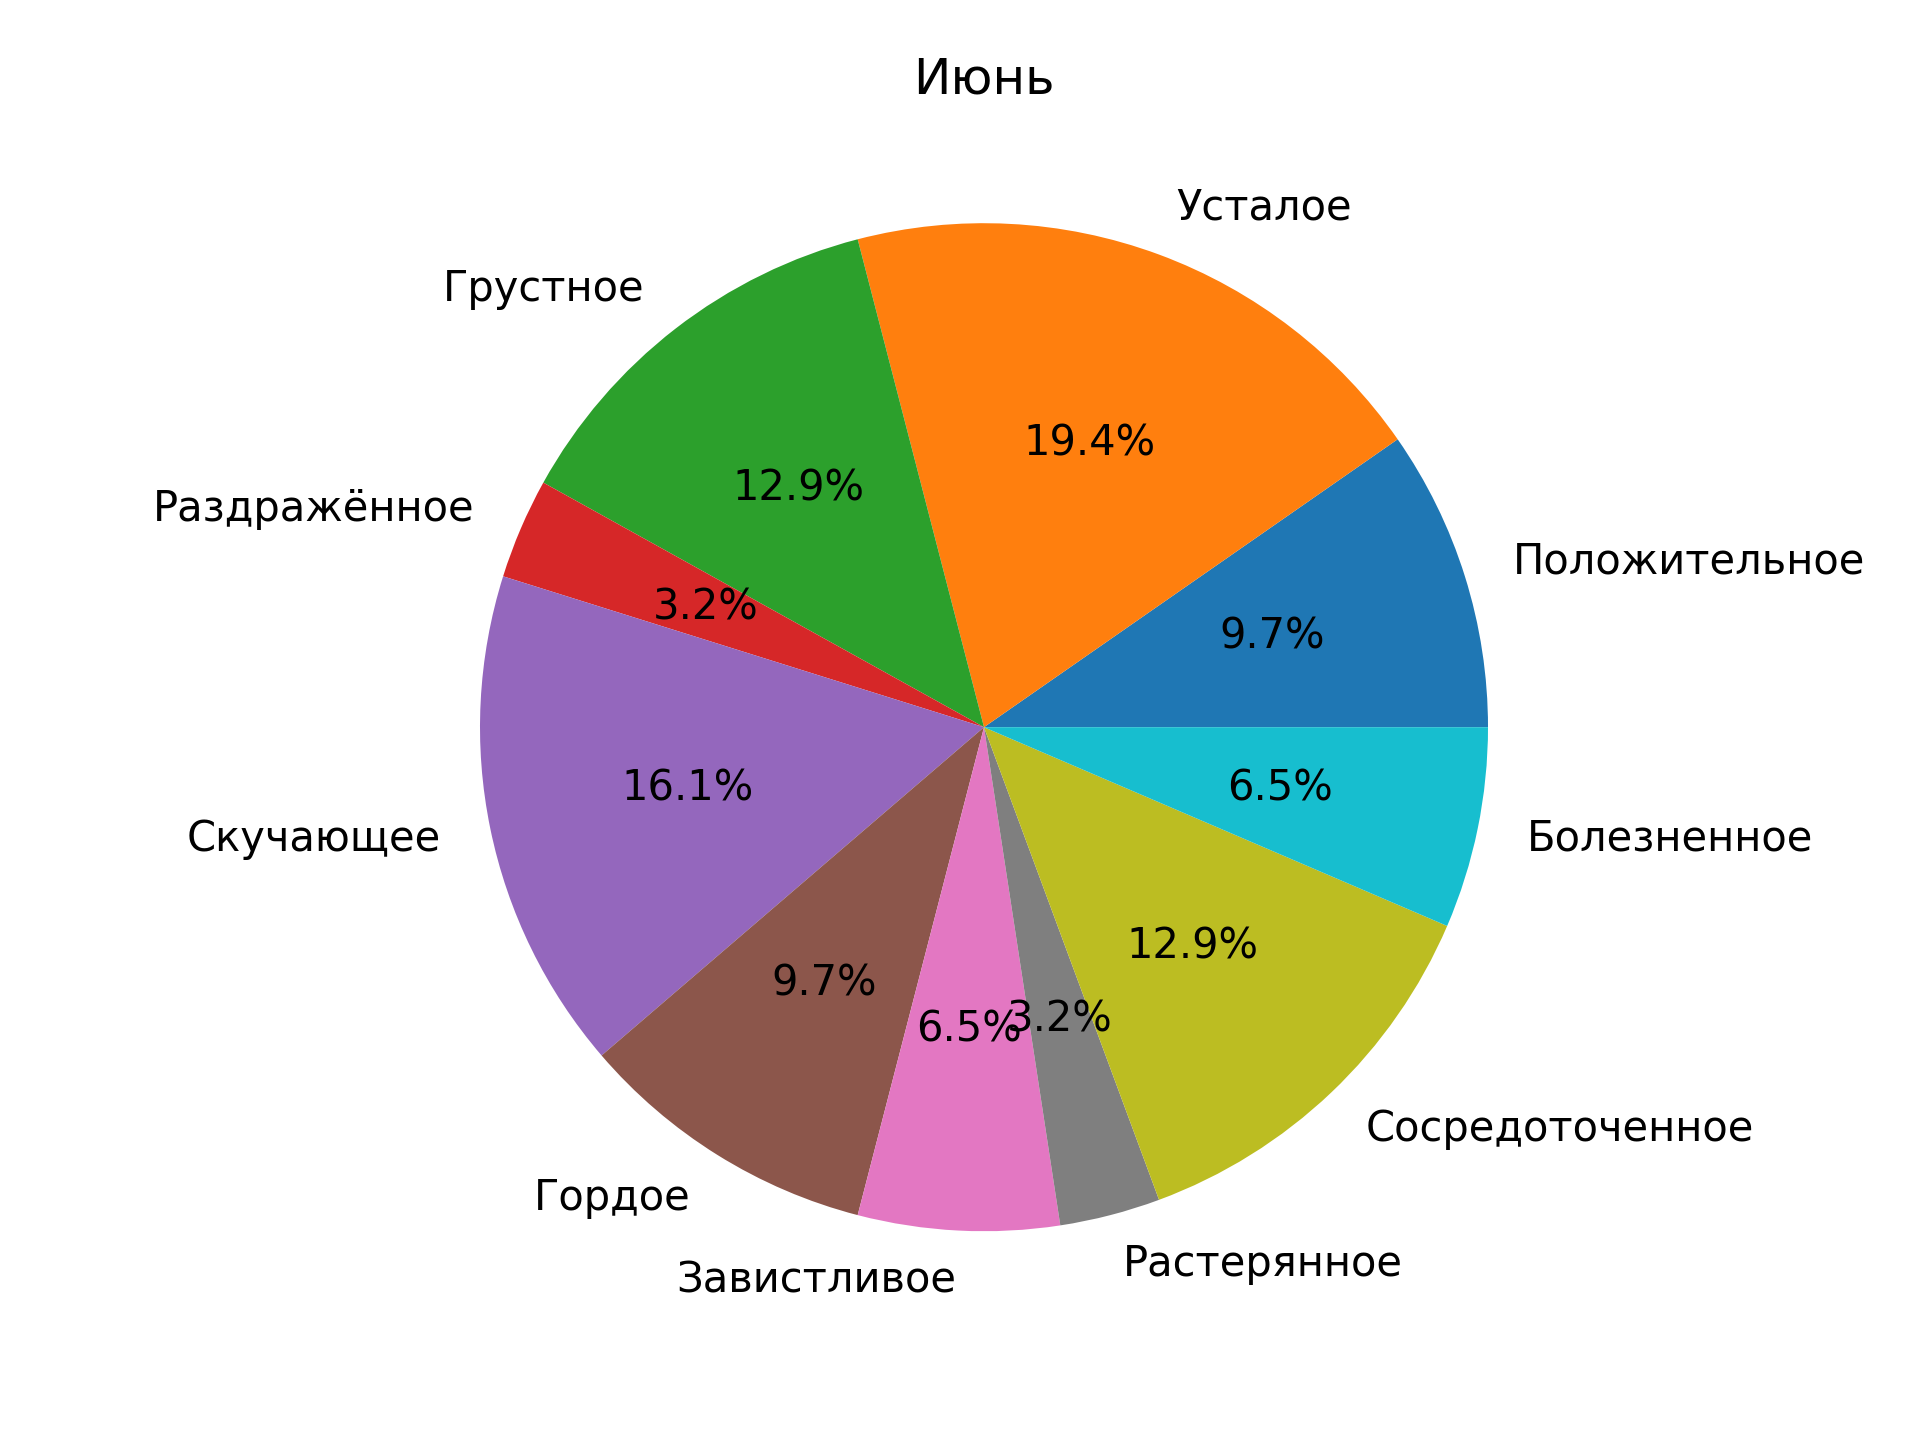
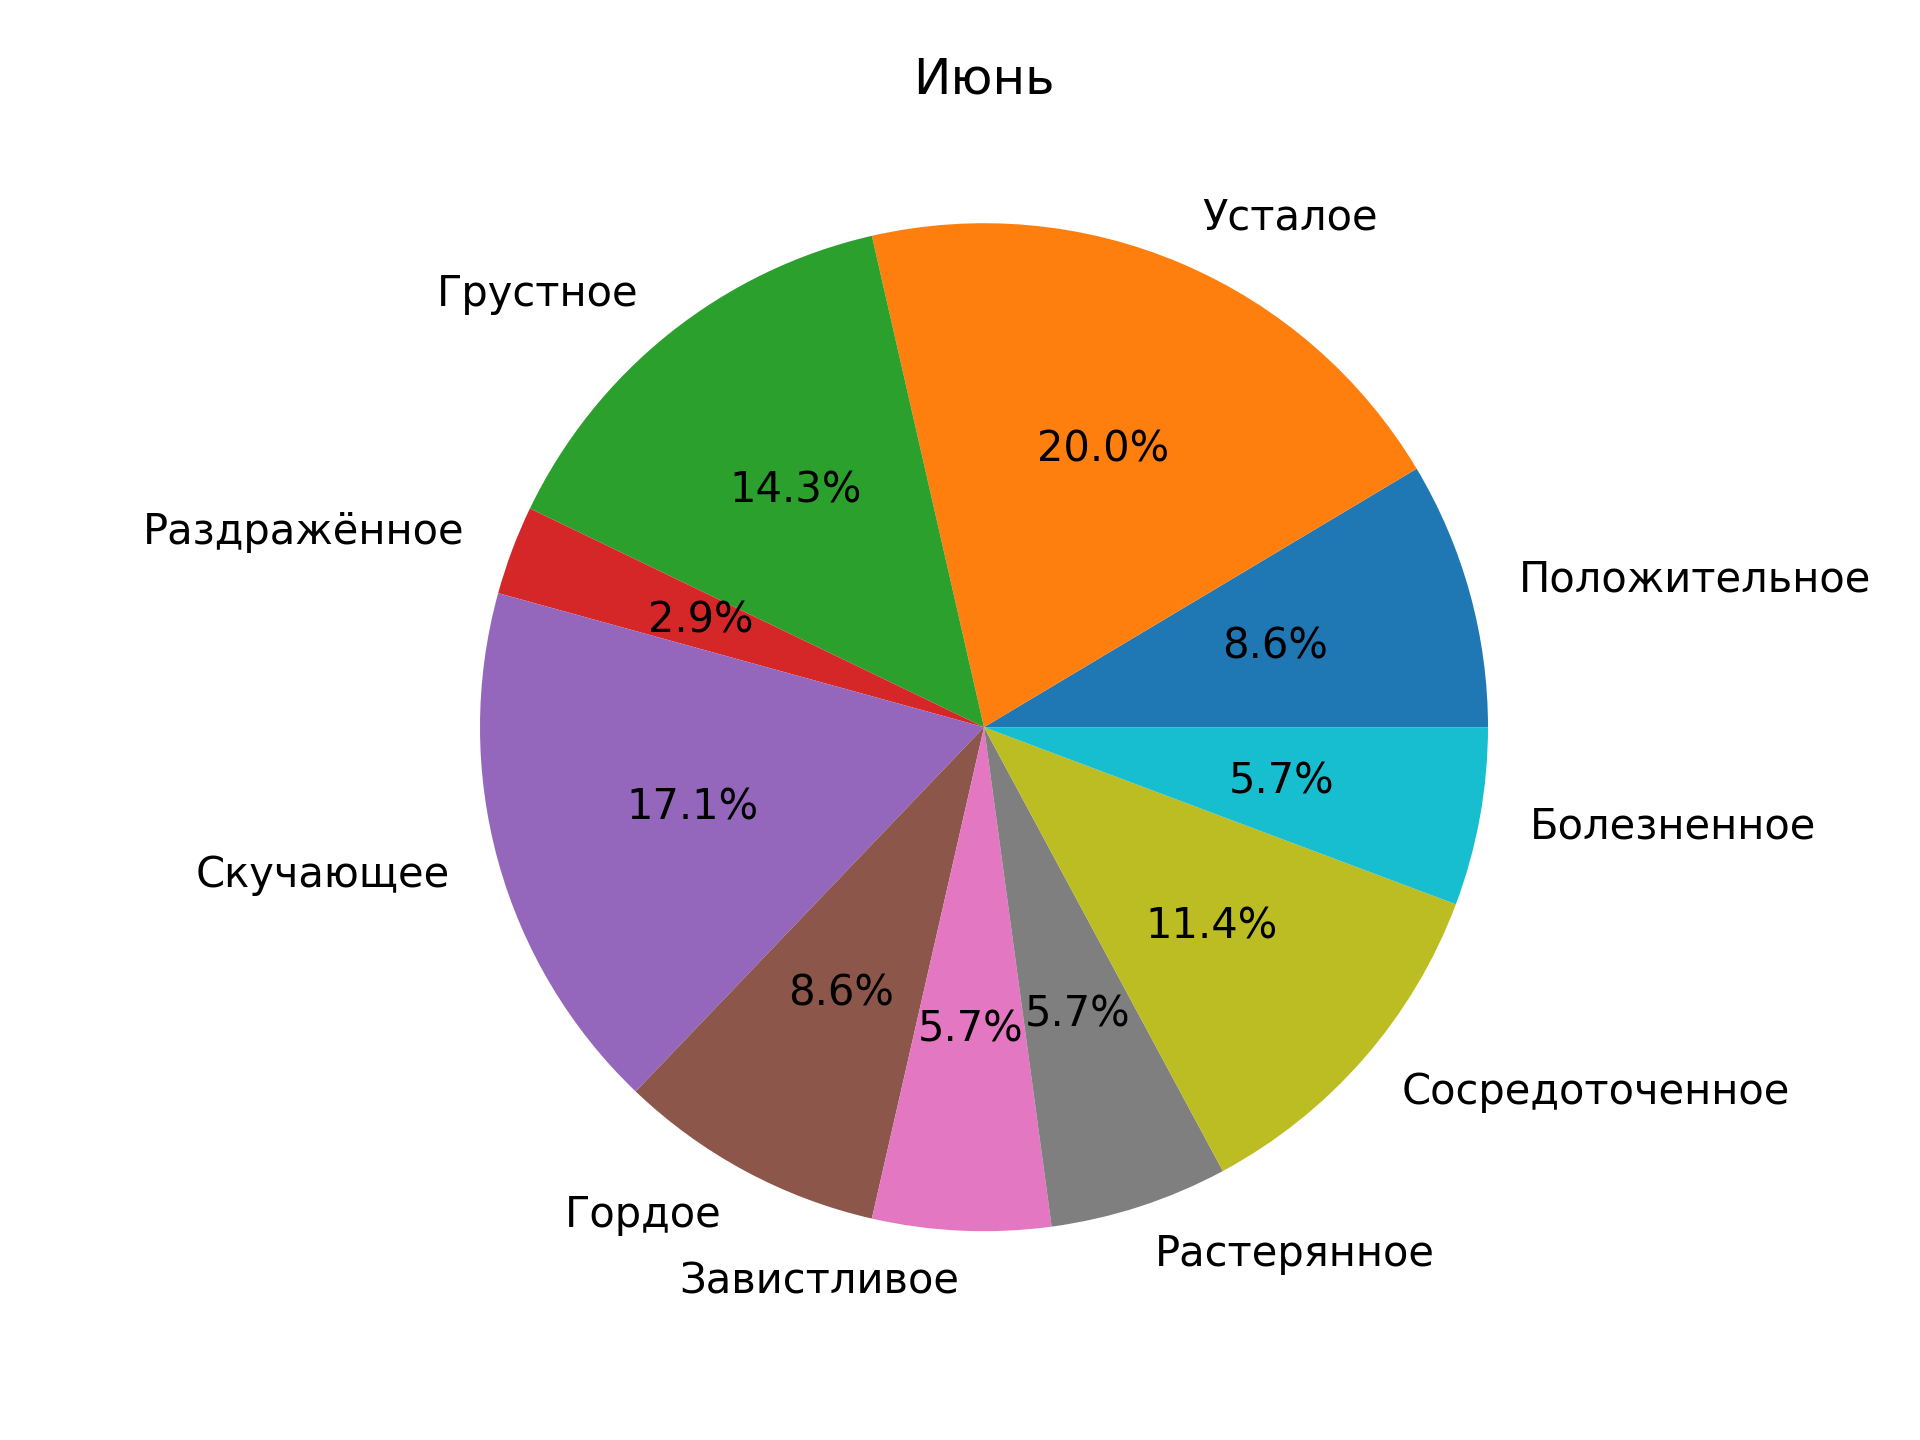
Enhance mood tracking features in mood_tracker_bot.py by adding month selection and pagination for mood records. Update plot_visualisation.py to filter mood data by month and improve plot saving functionality. Modify user data display to show the last five mood records with an option to view all rec

diff --git a/mood_tracker_bot.py b/mood_tracker_bot.py
@@ -81,6 +81,24 @@ def get_mood_selection_keyboard():
     ]
     return InlineKeyboardMarkup(inline_keyboard=buttons)
 
+def get_month_selection_keyboard(available_months: list):
+    """Создает клавиатуру для выбора месяца"""
+    months_list = ["Январь", 'Февраль', 'Март', 'Апрель', 'Май', 'Июнь', 'Июль', 'Август', 'Сентябрь', 'Октябрь', 'Ноябрь', 'Декабрь']
+    buttons = []
+    for month_num in available_months:
+        month_name = months_list[int(month_num) - 1]
+        buttons.append([InlineKeyboardButton(text=month_name, callback_data=f"month_{month_num}")])
+    return InlineKeyboardMarkup(inline_keyboard=buttons)
+
+def get_pagination_keyboard(current_page: int, total_pages: int, user_id: int):
+    """Создает клавиатуру для пагинации"""
+    buttons = []
+    if current_page > 0:
+        buttons.append(InlineKeyboardButton(text="◀ Назад", callback_data=f"page_{user_id}_{current_page-1}"))
+    if current_page < total_pages - 1:
+        buttons.append(InlineKeyboardButton(text="Вперёд ▶", callback_data=f"page_{user_id}_{current_page+1}"))
+    return InlineKeyboardMarkup(inline_keyboard=[buttons])
+
 # --- Функции планировщика ---
 async def send_mood_prompt(user_id: int):
     try:
@@ -141,7 +159,7 @@ async def send_welcome(message: Message):
         user_data[user_id] = {"moods": [], "notification_time": None}
     await message.answer(
         f"👋 Привет, {message.from_user.full_name}!\n"
-        "Я твой личный дневник настроения. Давай зафиксируем твоё настроение на сегодня.",
+        "Я твой личный дневник настроения. Давай зафиксируем твоё состояние на сегодня.",
         reply_markup=get_main_menu_keyboard()
     )
 
@@ -154,13 +172,39 @@ async def command_menu(message: Message):
 
 # --- Обработчики колбэков ---
 @dp.callback_query(lambda c: c.data == "plot")
-async def show_my_mood_plot(callback_query: CallbackQuery):
+async def show_month_selection(callback_query: CallbackQuery):
+    from plot_visualisaion import get_available_months
+    
+    available_months = get_available_months(callback_query.from_user.id)
+    if not available_months:
+        await callback_query.message.edit_text(
+            "У вас пока нет записей настроения. Сначала сделайте несколько записей!",
+            reply_markup=get_main_menu_keyboard()
+        )
+        await callback_query.answer()
+        return
+    
+    await callback_query.message.edit_text(
+        "Выберите месяц для просмотра статистики:",
+        reply_markup=get_month_selection_keyboard(available_months)
+    )
+    await callback_query.answer()
+
+@dp.callback_query(lambda c: c.data.startswith("month_"))
+async def show_selected_month_plot(callback_query: CallbackQuery):
+    month = callback_query.data.split("_")[1]
     year = str(datetime.now().strftime('%Y-%m-%d %H:%M:%S'))[:4]
     months_list = ["Январь", 'Февраль', 'Март', 'Апрель', 'Май', 'Июнь', 'Июль', 'Август', 'Сентябрь', 'Октябрь', 'Ноябрь', 'Декабрь']
-    month = months_list[int(str(datetime.now().strftime('%Y-%m-%d %H:%M:%S'))[6:7]) - 1]
+    month_name = months_list[int(month) - 1]
+    
     path_to_plot = make_and_save_plot(callback_query.from_user.id, month)
     photo = FSInputFile(path_to_plot)
-    await bot.send_photo(callback_query.chat.id, photo=photo, caption=f"Вот ваша диаграмма за {month} {year} год(а)")
+    await bot.send_photo(
+        callback_query.message.chat.id, 
+        photo=photo, 
+        caption=f"Вот ваша диаграмма за {month_name} {year} год(а)",
+        reply_markup=get_main_menu_keyboard()
+    )
     await callback_query.answer()
 
 @dp.callback_query(lambda c: c.data == "record_mood")
@@ -312,25 +356,68 @@ async def process_time_input(message: Message, state: FSMContext):
 async def show_my_data(message: Message):
     all_moods = get_all_moods(conn)
     user_id = message.from_user.id
-    if all_moods != []:
-        data_str = f"Ваши данные:\n"
-        # if user_data[user_id]["notification_time"]:
-        #     data_str += f"Время уведомлений: {user_data[user_id]['notification_time']}\n"
-        # else:
-        #     data_str += "Время уведомлений: не установлено\n"
-
-        data_str += "Записи настроения:\n"
-        if all_moods != []:
-            all_moods = get_all_moods(conn)
-            five_moods = reversed(all_moods[-5:])
-            for record in five_moods:
-                data_str += f"  - {record[2]}: {record[1]}\n"
-        else:
-            data_str += "  Пока нет записей.\n"
-        data_str += "Выше представлены 5 последних записей."
-        await message.answer(data_str)
-    else:
+    user_moods = [record for record in all_moods if record[0] == user_id]
+    
+    if not user_moods:
         await message.answer("У меня пока нет данных о вас.")
+        return
+
+    # Показываем последние 5 записей и кнопку для просмотра всех
+    data_str = "Ваши последние 5 записей:\n\n"
+    five_moods = reversed(user_moods[-5:])
+    for record in five_moods:
+        data_str += f"  - {record[2]}: {record[1]}\n"
+    
+    buttons = [[InlineKeyboardButton(text="📋 Показать все записи", callback_data=f"show_all_{user_id}_0")]]
+    await message.answer(data_str, reply_markup=InlineKeyboardMarkup(inline_keyboard=buttons))
+
+@dp.callback_query(lambda c: c.data.startswith("show_all_"))
+async def show_all_records(callback_query: CallbackQuery):
+    parts = callback_query.data.split("_")
+    user_id = int(parts[2])
+    page = int(parts[3]) if len(parts) > 3 else 0
+    
+    all_moods = get_all_moods(conn)
+    user_moods = [record for record in all_moods if record[0] == user_id]
+    user_moods.reverse()  # Сортируем от новых к старым
+    
+    records_per_page = 30
+    total_pages = (len(user_moods) + records_per_page - 1) // records_per_page
+    
+    start_idx = page * records_per_page
+    end_idx = min(start_idx + records_per_page, len(user_moods))
+    
+    data_str = f"Ваши записи (страница {page + 1} из {total_pages}):\n\n"
+    for record in user_moods[start_idx:end_idx]:
+        data_str += f"  - {record[2]}: {record[1]}\n"
+    
+    keyboard = get_pagination_keyboard(page, total_pages, user_id)
+    await callback_query.message.edit_text(data_str, reply_markup=keyboard)
+    await callback_query.answer()
+
+@dp.callback_query(lambda c: c.data.startswith("page_"))
+async def handle_pagination(callback_query: CallbackQuery):
+    parts = callback_query.data.split("_")
+    user_id = int(parts[1])
+    page = int(parts[2])
+    
+    all_moods = get_all_moods(conn)
+    user_moods = [record for record in all_moods if record[0] == user_id]
+    user_moods.reverse()  # Сортируем от новых к старым
+    
+    records_per_page = 30
+    total_pages = (len(user_moods) + records_per_page - 1) // records_per_page
+    
+    start_idx = page * records_per_page
+    end_idx = min(start_idx + records_per_page, len(user_moods))
+    
+    data_str = f"Ваши записи (страница {page + 1} из {total_pages}):\n\n"
+    for record in user_moods[start_idx:end_idx]:
+        data_str += f"  - {record[2]}: {record[1]}\n"
+    
+    keyboard = get_pagination_keyboard(page, total_pages, user_id)
+    await callback_query.message.edit_text(data_str, reply_markup=keyboard)
+    await callback_query.answer()
 
 # --- Команда для просмотра отчёта настроения в виде картинки ---
 @dp.message(Command("mood_plot"))

diff --git a/plot_visualisaion.py b/plot_visualisaion.py
@@ -49,12 +49,25 @@ mood_map_counter = {
 }
 
 def make_and_save_plot(user_id: int, month: str):
-    """Функция, которая генерирует график настроения за всё время и сохраняет его как изображение"""
+    """Функция, которая генерирует график настроения за определённый месяц и сохраняет его как изображение"""
     conn = connect_db()
     all_moods = get_all_moods(conn)
+    
+    # Reset counter for new calculation
+    for key in mood_map_counter:
+        mood_map_counter[key] = 0
+    
+    # Filter moods by month
     for record in all_moods:
-        mood_map_counter[str(record[3])] += 1
+        # Assuming record[2] contains the date in format YYYY-MM-DD
+        record_month = record[2].split('-')[1]  # Get month from date
+        if record_month == month:
+            mood_map_counter[str(record[3])] += 1
+    
     conn.close()
+
+    months_list = ["Январь", 'Февраль', 'Март', 'Апрель', 'Май', 'Июнь', 'Июль', 'Август', 'Сентябрь', 'Октябрь', 'Ноябрь', 'Декабрь']
+    month_str = months_list[int(month) - 1]
 
     value_list = []
     name_of_mood_list = [] # Названия настроений, которых нет в БД
@@ -76,8 +89,20 @@ def make_and_save_plot(user_id: int, month: str):
     fig, ax = plt.subplots()
     ax.pie(vals, labels=labels, autopct='%1.1f%%')
     ax.axis("equal")
-    ax.set_title(month, pad=19)
-    plt.savefig(fr'monthly chart\{user_id}_mood_plot_{month}.png', dpi=300)
-    return fr'monthly chart\{user_id}_mood_plot_{month}.png'
+    ax.set_title(month_str, pad=19)
+    plt.savefig(fr'monthly chart\{user_id}_mood_plot_{month_str}.png', dpi=300)
+    return fr'monthly chart\{user_id}_mood_plot_{month_str}.png'
 
-
+def get_available_months(user_id: int) -> list:
+    """Функция, которая возвращает список месяцев, в которых есть записи настроения"""
+    conn = connect_db()
+    all_moods = get_all_moods(conn)
+    conn.close()
+    
+    available_months = set()
+    for record in all_moods:
+        if record[0] == user_id:  # Check if record belongs to the user
+            month = record[2].split('-')[1]  # Get month from date
+            available_months.add(month)
+    
+    return sorted(list(available_months))
